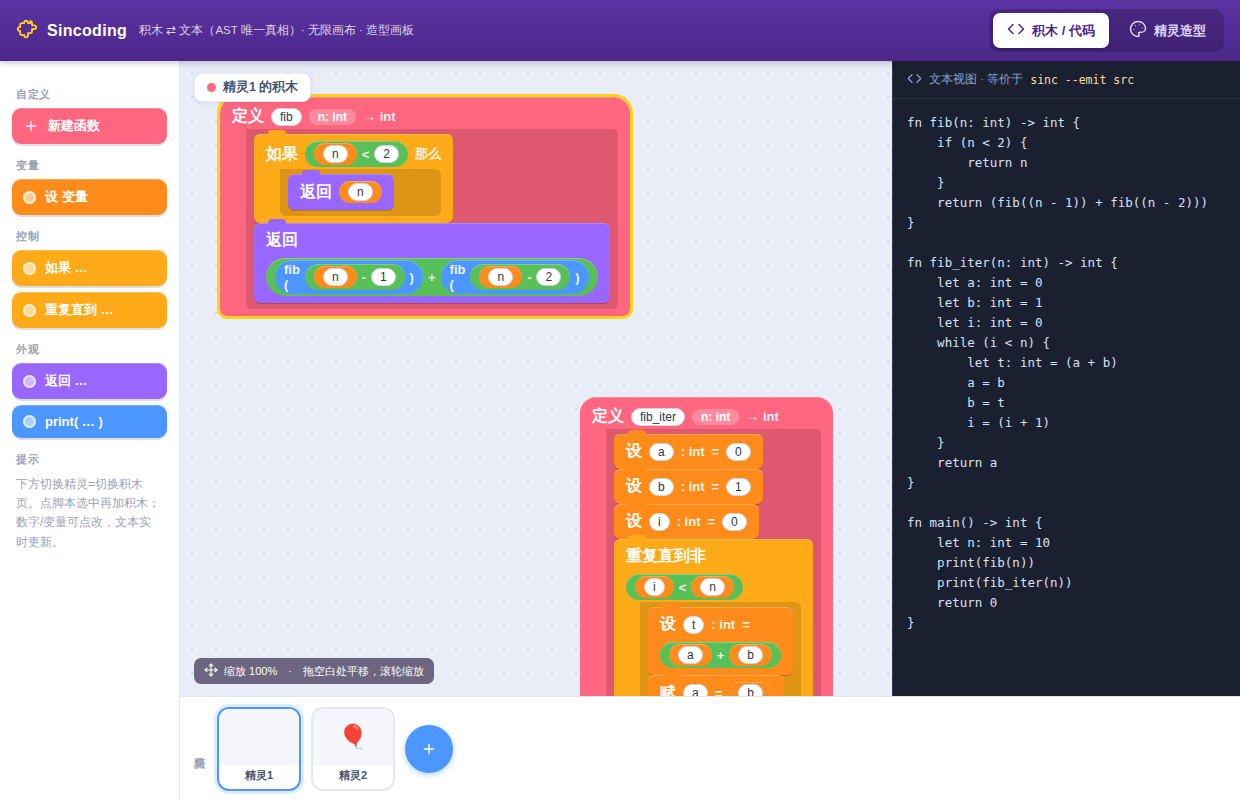
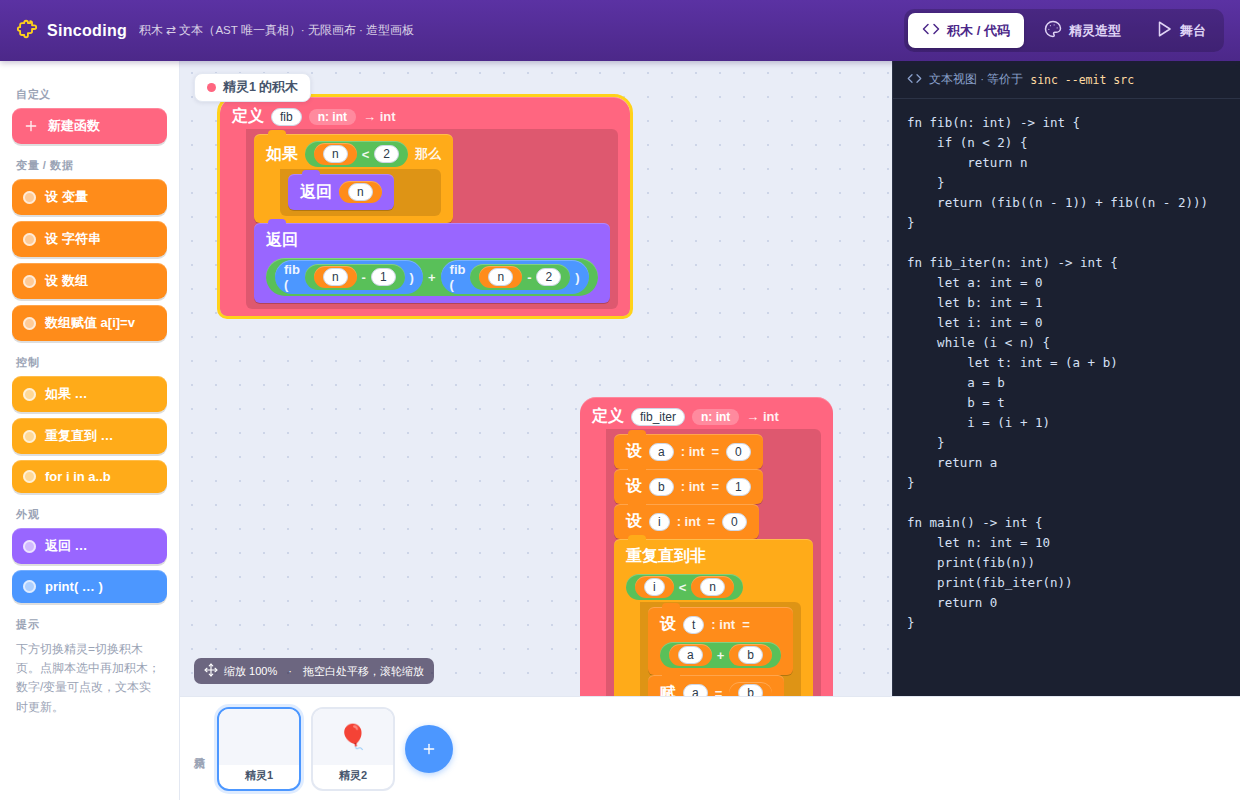
feat: 编辑器调色板加入数组/字符串/for 积木
调色板新增可点击加入选中脚本的积木：
- 变量/数据：设 字符串（let string）、设 数组（let int[3]）、
  数组赋值 a[i]=v（带下标的 assign）
- 控制：for i in a..b
配合既有的渲染器（字符串/数组/下标/for 积木），点击即改 AST 并实时
刷新文本视图。

验证：verify_ide.js 新增 palette 断言——点「设 数组」「for」后文本
出现 int[3] 与 for。全部 39 项通过；文档与 IDE 截图更新。

Claude-Session: https://claude.ai/code/session_01HiR2mBnFKd7jA92bvRoyae

Changed region(s): [[0.0, 0.25, 0.1532, 0.9062], [0.7048, 0.0, 0.9806, 0.0625], [0.0306, 0.1875, 0.0613, 0.2188]]

diff --git a/editor/app.js b/editor/app.js
@@ -415,9 +415,14 @@
 
   // ---------------- 调色板 ----------------
   const NEW = {
-    let: () => ({ block: "let", name: "x", type: "int", value: { block: "int", value: 0 } }),
+    let: () => ({ block: "let", name: "x", type: "int", len: 0, value: { block: "int", value: 0 } }),
+    let_str: () => ({ block: "let", name: "s", type: "string", len: 0, value: { block: "string", value: "你好" } }),
+    let_arr: () => ({ block: "let", name: "a", type: "int", len: 3,
+      value: { block: "array", elems: [{ block: "int", value: 0 }, { block: "int", value: 0 }, { block: "int", value: 0 }] } }),
+    set_idx: () => ({ block: "assign", name: "a", index: { block: "int", value: 0 }, value: { block: "int", value: 0 } }),
     if: () => ({ block: "if", cond: { block: "bool", value: true }, then: [] }),
     while: () => ({ block: "while", cond: { block: "bool", value: true }, body: [] }),
+    for: () => ({ block: "for", var: "i", start: { block: "int", value: 0 }, end: { block: "int", value: 10 }, body: [] }),
     return: () => ({ block: "return", value: { block: "int", value: 0 } }),
     print: () => ({ block: "expr", expr: { block: "call", callee: "print", args: [{ block: "int", value: 0 }] } }),
   };
@@ -446,11 +451,15 @@
     };
     pal.append(el("h2", null, "自定义"));
     item("新建函数", "#FF6680", addFn, "plus");
-    pal.append(el("h2", null, "变量"));
+    pal.append(el("h2", null, "变量 / 数据"));
     item("设 变量", "#FF8C1A", () => addStmt("let"));
+    item("设 字符串", "#FF8C1A", () => addStmt("let_str"));
+    item("设 数组", "#FF8C1A", () => addStmt("let_arr"));
+    item("数组赋值 a[i]=v", "#FF8C1A", () => addStmt("set_idx"));
     pal.append(el("h2", null, "控制"));
     item("如果 …", "#FFAB19", () => addStmt("if"));
     item("重复直到 …", "#FFAB19", () => addStmt("while"));
+    item("for i in a..b", "#FFAB19", () => addStmt("for"));
     pal.append(el("h2", null, "外观"));
     item("返回 …", "#9966FF", () => addStmt("return"));
     item("print( … )", "#4C97FF", () => addStmt("print"));

diff --git a/tools/verify_ide.js b/tools/verify_ide.js
@@ -50,6 +50,13 @@ const { chromium } = require("playwright");
     reorder = afterR !== beforeR && fibBody.indexOf("return") < fibBody.indexOf("if (");
   }
 
+  // 调色板：加入「数组」与「for」积木 → 文本应出现 int[3] 与 for
+  await page.click('#palette button:has-text("设 数组")');
+  await page.click('#palette button:has-text("for i in")');
+  await page.waitForTimeout(40);
+  const palText = await page.textContent("#text-out");
+  const palette = palText.includes("int[3]") && palText.includes("for ");
+
   // 多精灵 / 多页积木：切到第二个精灵 → 文本页应切换
   const sprite1Text = await page.textContent("#text-out");
   await page.click("#sprite-list .sprite-card:nth-child(2)");
@@ -86,7 +93,7 @@ const { chromium } = require("playwright");
 
   await browser.close();
 
-  const ok = writeback && reorder && spriteSwitch && stageOk && painted > 100 && errors.length === 0;
-  console.log(JSON.stringify({ writeback, reorder, spriteSwitch, stage, paintedPixels: painted, errors }));
+  const ok = writeback && reorder && palette && spriteSwitch && stageOk && painted > 100 && errors.length === 0;
+  console.log(JSON.stringify({ writeback, reorder, palette, spriteSwitch, stage, paintedPixels: painted, errors }));
   process.exit(ok ? 0 : 1);
 })().catch((e) => { console.error(e); process.exit(1); });

diff --git a/editor/README.md b/editor/README.md
@@ -14,6 +14,7 @@
 - **多精灵 / 多页积木**：底部精灵栏，每个精灵拥有自己的一页积木（program）与一组造型；切换精灵即切换积木页与造型集。
 - **无限积木画布**：拖空白处平移、滚轮缩放，脚本可自由拖动摆放。
 - **积木拖拽重排**：按住语句积木拖动，可在各 stack（函数体 / 控制块嘴巴）间移动；落点高亮提示，落下即改 AST 并刷新文本。
+- **数据/控制积木**：调色板含 设变量 / 设字符串 / 设数组 / 数组赋值 `a[i]=v` / `if` / `while` / `for i in a..b` 等，点击即加入选中脚本。
 - **舞台**：精灵以其当前造型为外观/纹理（画板里画什么，舞台上精灵就长什么样），可拖动摆位。
 - **可编辑积木**：数字 / 变量 / 函数名直接点改，布尔积木点击切换；从调色板加入 `let / if / while / return / print` 积木。
 - **实时文本写回**：任何积木编辑都即时更新右侧文本视图，结果与 `sinc --emit src` **逐字节一致**（由 `blockmodel.js` 保证，并有测试交叉验证）。
